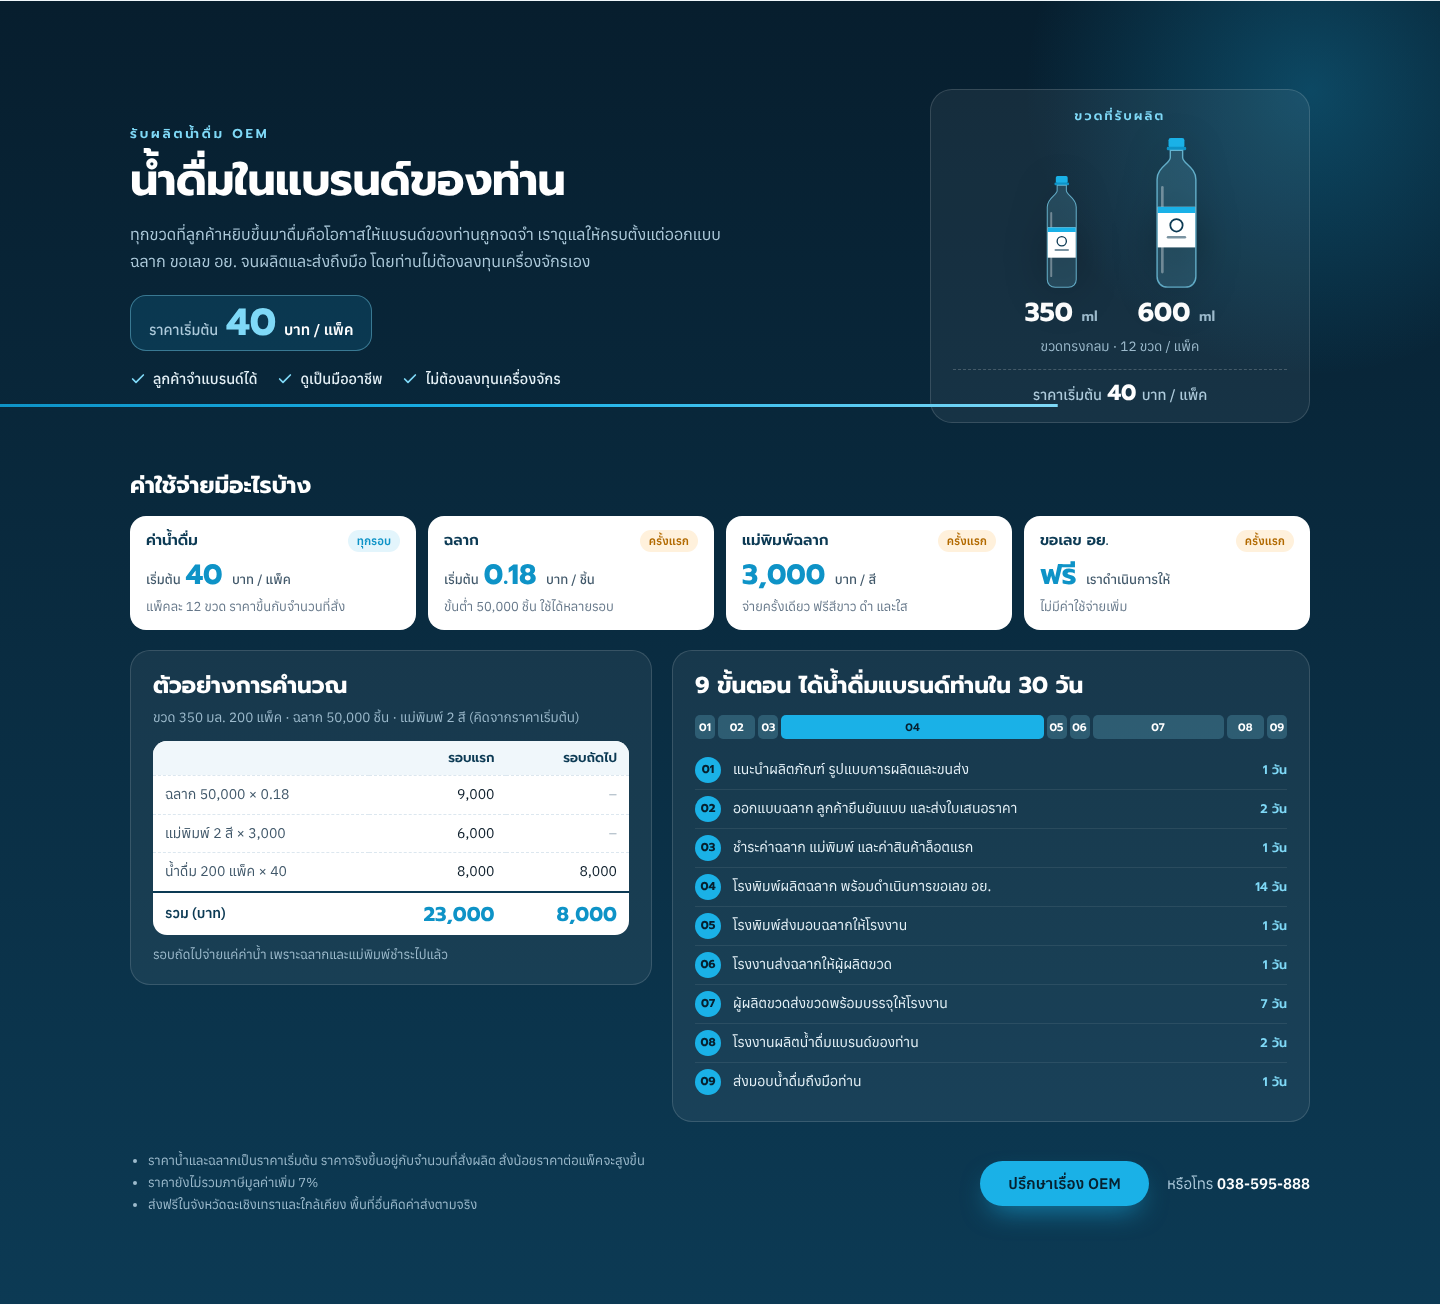
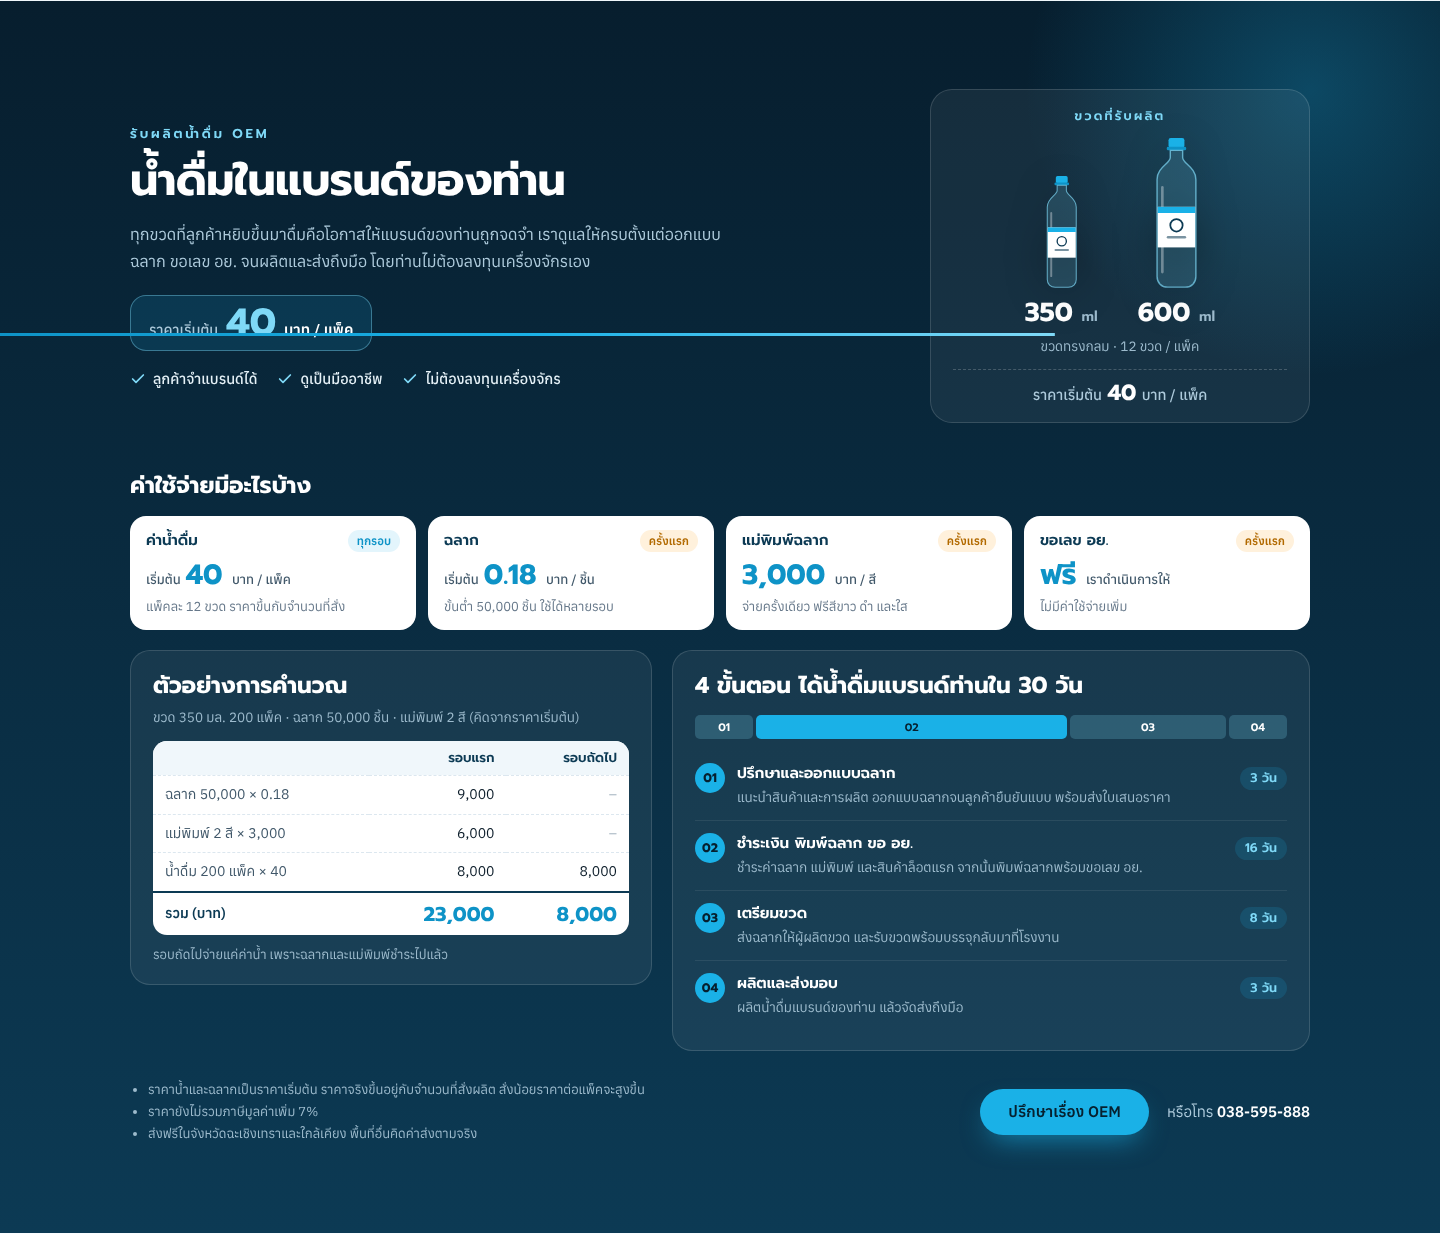
Condense OEM timeline from 9 steps to 4
Consult & design (3d), payment/printing/FDA (16d), bottle prep (8d),
fill & deliver (3d) — still 30 days total. Each step gets a short description.

Claude-Session: https://claude.ai/code/session_01YaNiDfhZAcTEi77aYvJdhV

diff --git a/css/style.css b/css/style.css
@@ -366,13 +366,15 @@ input:focus,textarea:focus,select:focus{outline:2px solid var(--accent,#1AB1E7);
 .oem-bill-note{font:400 13px/1.5 'Anuphan',sans-serif;color:#9DBBCD;margin:10px 0 0}
 .oem-bar{display:flex;gap:3px;margin-top:14px;height:24px}
 .oem-bar-seg{display:flex;align-items:center;justify-content:center;min-width:20px;background:rgba(127,217,247,.22);color:#fff;font:600 11px/1 'Prompt',sans-serif;border-radius:5px}
-.oem-bar-seg:nth-child(4){background:#1AB1E7;color:#06202F}
+.oem-bar-seg:nth-child(2){background:#1AB1E7;color:#06202F}
 .oem-steps{list-style:none;padding:0;margin:12px 0 0;display:grid;grid-template-columns:1fr;gap:0}
-.oem-step{display:flex;align-items:center;gap:12px;padding:6px 0;border-top:1px solid rgba(255,255,255,.08)}
+.oem-step{display:flex;align-items:flex-start;gap:12px;padding:12px 0;border-top:1px solid rgba(255,255,255,.08)}
 .oem-step:first-child{border-top:0}
-.oem-step-num{flex:0 0 auto;width:26px;height:26px;border-radius:50%;display:flex;align-items:center;justify-content:center;background:#1AB1E7;color:#06202F;font:700 11.5px/1 'Prompt',sans-serif}
-.oem-step-title{flex:1;font:400 14px/1.4 'Anuphan',sans-serif;color:#E6F2F8}
-.oem-step-days{flex:0 0 auto;font:600 12.5px/1 'Prompt',sans-serif;color:#7FD9F7;white-space:nowrap}
+.oem-step-num{flex:0 0 auto;width:30px;height:30px;border-radius:50%;display:flex;align-items:center;justify-content:center;background:#1AB1E7;color:#06202F;font:700 12.5px/1 'Prompt',sans-serif}
+.oem-step-text{flex:1;display:flex;flex-direction:column;gap:3px}
+.oem-step-title{font:600 15px/1.4 'Prompt',sans-serif;color:#fff}
+.oem-step-desc{font:400 13.5px/1.55 'Anuphan',sans-serif;color:#9DBBCD}
+.oem-step-days{flex:0 0 auto;font:600 12.5px/1 'Prompt',sans-serif;color:#7FD9F7;white-space:nowrap;margin-top:4px;background:rgba(26,177,231,.16);border-radius:999px;padding:5px 10px}
 .oem-foot{display:flex;flex-wrap:wrap;justify-content:space-between;align-items:center;gap:18px 28px;margin-top:28px}
 .oem-notes{margin:0;padding-left:18px;font:400 13px/1.7 'Anuphan',sans-serif;color:#9DBBCD;max-width:680px}
 .oem-cta{display:flex;flex-wrap:wrap;align-items:center;gap:12px 18px}
@@ -417,7 +419,8 @@ input:focus,textarea:focus,select:focus{outline:2px solid var(--accent,#1AB1E7);
   .oem-bill th,.oem-bill td{padding:8px 9px}
   .oem-bill{font-size:13px}
   .oem-bill tfoot td{font-size:17px}
-  .oem-step-title{font-size:13.5px}
+  .oem-step-title{font-size:14.5px}
+  .oem-step-desc{font-size:13px}
   .oem-foot{margin-top:20px}
   .oem-cta{width:100%}
   .oem-cta .btn-primary{flex:1;text-align:center}

diff --git a/src/index.html b/src/index.html
@@ -501,7 +501,7 @@
             {{#each oem.steps}}
             <li class="oem-step">
               <span class="oem-step-num">{{@n}}</span>
-              <span class="oem-step-title">{{t.title}}</span>
+              <span class="oem-step-text"><span class="oem-step-title">{{t.title}}</span><span class="oem-step-desc">{{t.desc}}</span></span>
               <span class="oem-step-days">{{it.days}} {{t:oem.22}}</span>
             </li>
             {{/each}}
